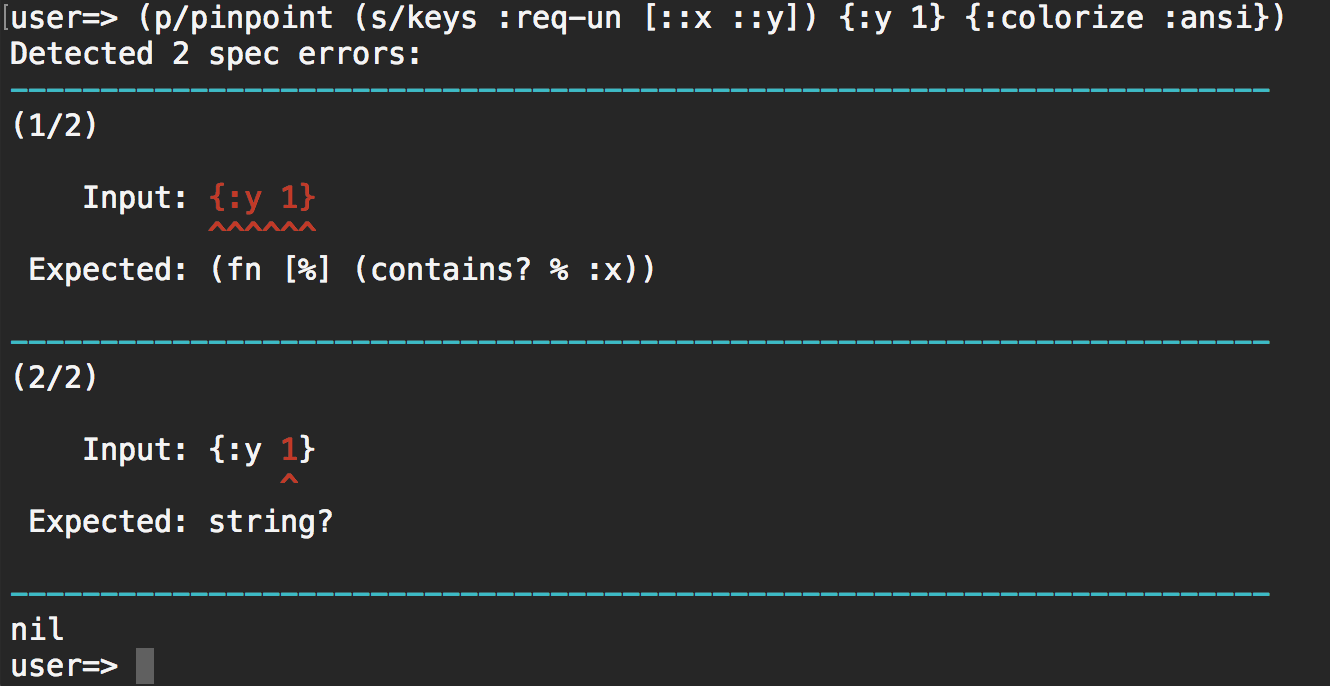
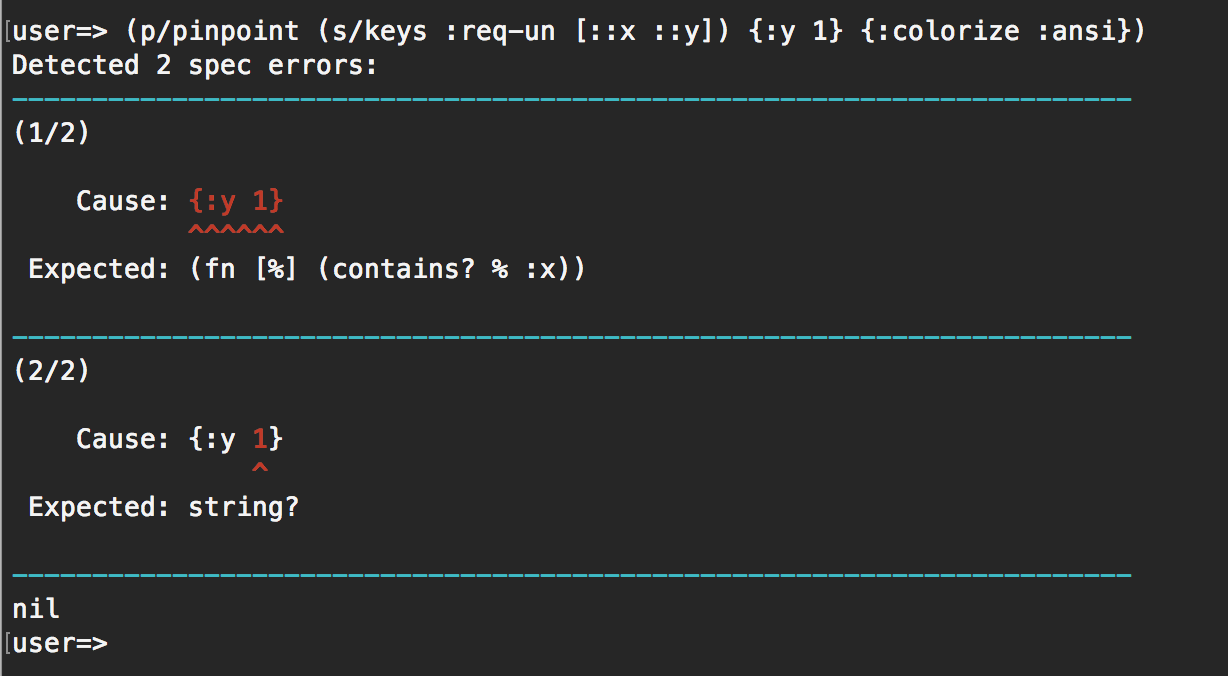
Change caption

diff --git a/README.md b/README.md
@@ -34,7 +34,7 @@ clojure.spec provides an API named `explain`, which describes which portion of t
 In: [:y] val: 1 fails spec: :user/y at: [:y] predicate: string?
 val: {:y 1} fails predicate: (contains? % :x)
 nil
-=> 
+=>
 ```
 
 As you can see above, the result of `explain` is simple and plain, but it is often not easy to understand intuitively what was wrong. And it will take longer time to find out where the actual problem is as the spec and input data are getting larger.
@@ -51,14 +51,14 @@ Detected 2 spec errors:
 ----------------------------------------------------------------------
 (1/2)
 
-    Input: {:y 1}
+    Cause: {:y 1}
            ^^^^^^
  Expected: (fn [%] (contains? % :x))
 
 ----------------------------------------------------------------------
 (2/2)
 
-    Input: {:y 1}
+    Cause: {:y 1}
                ^
  Expected: string?
 
@@ -101,7 +101,7 @@ Detected 1 spec error:
 ----------------------------------------------------------------------
 (1/1)
 
-    Input: (3)
+    Cause: (3)
             ^
  Expected: even?
 
@@ -125,7 +125,7 @@ Detected 1 spec error:
 ----------------------------------------------------------------------
 (1/1)
 
-    Input: 5
+    Cause: 5
            ^
  Expected: (fn [%] (> % 10))
 
